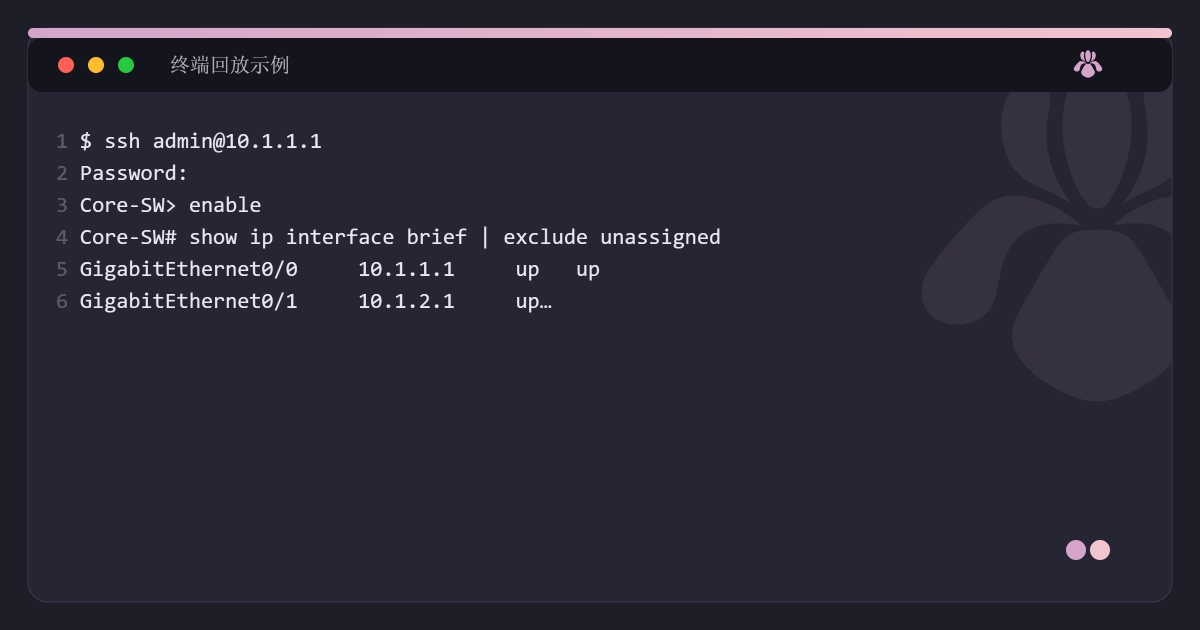
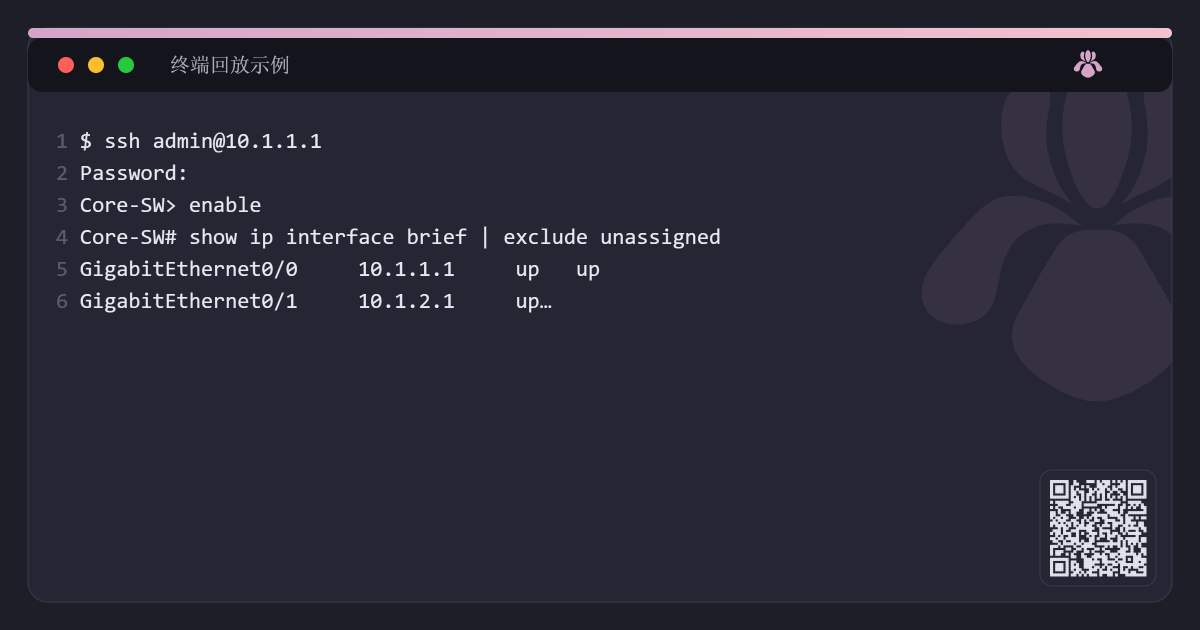
feat(ui): 分享卡片右下角加主题化二维码，扫码直达本文锚点
- 四种模板右下角新增二维码芯片（116px 圆角块）：--color-surface 底 +
  --color-text 模块，随当前主题配色；暗色主题为反色码，主流扫码器
  支持反色识别
- 内容指向「当前文档 + 选区最近标题锚点」的 hash 路由链接，Issue 反馈
  与卡片共用同一 pageUrlFor 构造；本地文件等无路径上下文时退回原
  双圆点装饰
- 编码复用站内本地实现 iris/js/qr-encoder.js（内容不出本机），按需
  懒加载，失败退回双圆点
- 排版预留：摘录/代码/表格的底部预留从 130px 加到 160~170px，避免与
  二维码芯片重叠
- ARTWORK.md §6.2/6.3 同步二维码规范；docs/image 四张预览图重生成

验证：OpenCV 解码四张卡二维码，浅色 3 张直接解出、暗色反色码翻色
后解出，URL 与构造链接逐字一致。

Changed region(s): [[0.8633, 0.754, 0.9558, 0.9349]]

diff --git a/iris/js/selection-tools.js b/iris/js/selection-tools.js
@@ -142,6 +142,14 @@
     return st.docTitle || document.title.split(' | ')[0] || '';
   }
 
+  // 卡片 / Issue 反馈共用的原文链接：当前文档 + 选区最近标题锚点（hash 路由）
+  function pageUrlFor(rect) {
+    const st = window.MarkdownPreview.state || {};
+    if (!st.currentFilePath) return '';
+    const anchor = nearestHeadingAnchor(rect);
+    return `${location.origin}${location.pathname}#/${st.currentFilePath}${anchor ? '#' + anchor : ''}`;
+  }
+
   // ============== GitHub Issue 一键反馈 ==============
   // 用预填标题/正文的 issue 表单收文档纠错：零后端，评论走 giscus、纠错走这里。
   function nearestHeadingAnchor(rect) {
@@ -162,8 +170,7 @@
     const st = window.MarkdownPreview.state || {};
     if (!cfg.owner || !cfg.repo) return;
     const path = st.currentFilePath || '';
-    const anchor = nearestHeadingAnchor(info.rect);
-    const pageUrl = `${location.origin}${location.pathname}#/${path}${anchor ? '#' + anchor : ''}`;
+    const pageUrl = pageUrlFor(info.rect);
     const quote = info.text.length > 300 ? info.text.slice(0, 300) + '…' : info.text;
     const title = `[反馈] ${docTitle() || path}：${info.text.slice(0, 30)}${info.text.length > 30 ? '…' : ''}`;
     const body = [
@@ -202,7 +209,7 @@
         hideToolbar();
         exportShareCard(
           { title: docTitle(), excerpt: info.text },
-          { template, rawText: info.rawText, tableEl: info.tableEl, vertical: template === 'quote-v' }
+          { template, rawText: info.rawText, tableEl: info.tableEl, vertical: template === 'quote-v', pageUrl: pageUrlFor(info.rect) }
         );
       });
     });
@@ -353,10 +360,15 @@
     }
   }
 
-  function drawFooter(ctx, W, H, dark) {
+  function drawFooter(ctx, W, H, dark, pageUrl) {
     const accent1 = cssVar('--color-accent-purple', '#d4a5c9');
     const accent2 = cssVar('--color-accent-pink', '#f2c4ce');
-    // 站名已上移到品牌头（drawBrand），页脚只留双圆点装饰
+    // 右下角：有原文链接时画主题化二维码（扫码直达本文锚点），
+    // 无链接（本地文件 / 无路径上下文）时退回双圆点装饰
+    if (pageUrl && window.MarkdownPreview.QREncoder) {
+      drawQRChip(ctx, W, H, dark, pageUrl);
+      return;
+    }
     ctx.fillStyle = accent2;
     ctx.beginPath();
     ctx.arc(W - 100, H - 80, 10, 0, Math.PI * 2);
@@ -367,13 +379,45 @@
     ctx.fill();
   }
 
+  // 二维码芯片：surface 圆角底 + 主题文字色模块，随当前主题配色。
+  // 暗色主题下是「浅模块 / 深底」的反色码，主流扫码器（iOS 相机 /
+  // 微信 / Google Lens）均支持反色识别。
+  function drawQRChip(ctx, W, H, dark, pageUrl) {
+    const qr = window.MarkdownPreview.QREncoder.encode(pageUrl, { ecl: 'M' });
+    if (!qr) return;
+    const surface = dark ? '#252533' : cssVar('--color-surface', '#ffffff');
+    const border = dark ? '#3a3a4c' : cssVar('--color-border', '#f0f0f0');
+    const ink = dark ? 'rgba(235,235,245,.92)' : cssVar('--color-text', '#2d2d2d');
+    const size = 116;
+    const x = W - 44 - size;
+    const y = H - 44 - size;
+    roundRectPath(ctx, x, y, size, size, 12);
+    ctx.fillStyle = surface;
+    ctx.fill();
+    ctx.strokeStyle = border;
+    ctx.lineWidth = 1;
+    ctx.stroke();
+    // 静区 10px（规范建议 ≥4 模块）+ 模块栅格
+    const quiet = 10;
+    const area = size - quiet * 2;
+    const cell = area / qr.size;
+    ctx.fillStyle = ink;
+    for (let r = 0; r < qr.size; r++) {
+      for (let c = 0; c < qr.size; c++) {
+        if (qr.modules[r * qr.size + c]) {
+          ctx.fillRect(x + quiet + c * cell, y + quiet + r * cell, cell + 0.5, cell + 0.5);
+        }
+      }
+    }
+  }
+
   function cardFont(isTitle) {
     const bodyFont = getComputedStyle(document.querySelector('.markdown-body') || document.body).fontFamily || 'sans-serif';
     return bodyFont;
   }
 
   // 引言模板（横版 1200×630 / 竖版 1200×1600 共用一套排版）
-  function drawQuoteCard(ctx, W, H, content) {
+  function drawQuoteCard(ctx, W, H, content, pageUrl) {
     const text = cssVar('--color-text', '#2d2d2d');
     const accent1 = cssVar('--color-accent-purple', '#d4a5c9');
     const vertical = H > W;
@@ -404,7 +448,7 @@
     // 固定行数在两行标题时会画到卡片内底之外并压住页脚
     const maxExcerptLines = Math.min(
       vertical ? 22 : 8,
-      Math.max(1, Math.floor((H - 130 - excerptTop) / lineHeight))
+      Math.max(1, Math.floor((H - 170 - excerptTop) / lineHeight))
     );
     const excerptLines = [];
     (content.excerpt || '').split('\n').some(seg => {
@@ -423,11 +467,11 @@
     ctx.font = `600 ${vertical ? 150 : 120}px Georgia, serif`;
     ctx.fillText('“', 52, excerptTop + 40);
 
-    drawFooter(ctx, W, H, false);
+    drawFooter(ctx, W, H, false, pageUrl);
   }
 
   // 代码卡片：固定深色编辑器窗口风格
-  function drawCodeCard(ctx, W, H, content, rawText) {
+  function drawCodeCard(ctx, W, H, content, rawText, pageUrl) {
     drawCardFrame(ctx, W, H, { dark: true });
 
     const mono = `ui-monospace, SFMono-Regular, Consolas, "Courier New", monospace`;
@@ -451,7 +495,7 @@
     // 代码正文
     ctx.fillStyle = '#e8e8f0';
     ctx.font = `22px ${mono}`;
-    const maxLines = 13;
+    const maxLines = 11; // 右下角二维码芯片占高 160px，末行基线须在其上
     const lines = [];
     String(rawText || content.excerpt || '').replace(/\t/g, '  ').split('\n').some(raw => {
       const wrapped = wrapLine(ctx, raw.replace(/\s+$/, ''), W - 190);
@@ -468,11 +512,11 @@
     ctx.fillStyle = 'rgba(235,235,245,.28)';
     for (let i = 0; i < lines.length; i++) ctx.fillText(String(i + 1), 56, 148 + i * 32);
 
-    drawFooter(ctx, W, H, true);
+    drawFooter(ctx, W, H, true, pageUrl);
   }
 
   // 表格卡片：把选区所在表格按当前主题重绘
-  function drawTableCard(ctx, W, H, content, tableEl) {
+  function drawTableCard(ctx, W, H, content, tableEl, pageUrl) {
     drawCardFrame(ctx, W, H, {});
     drawBrand(ctx, false);
     const text = cssVar('--color-text', '#2d2d2d');
@@ -503,7 +547,7 @@
 
     const rowH = 44;
     const headerTop = 160;
-    const maxRows = Math.min(rows.length, Math.floor((H - headerTop - 120) / rowH));
+    const maxRows = Math.min(rows.length, Math.floor((H - headerTop - 160) / rowH));
 
     const drawRow = (cells, y, isHeader) => {
       if (isHeader) {
@@ -546,7 +590,7 @@
       ctx.fillText(t('sel.cardTableMore', '… 其余 {n} 行未展示').replace('{n}', rows.length - maxRows), 80, headerTop + maxRows * rowH + 34);
     }
 
-    drawFooter(ctx, W, H, false);
+    drawFooter(ctx, W, H, false, pageUrl);
   }
 
   /**
@@ -558,6 +602,10 @@
     opts = opts || {};
     const template = opts.template || (opts.vertical ? 'quote-v' : 'quote');
     if (document.fonts && document.fonts.ready) await document.fonts.ready;
+    // 二维码编码器按需懒加载（qr-share.js 同款模式）；加载失败时 drawFooter 退回双圆点
+    if (opts.pageUrl && !window.MarkdownPreview.QREncoder) {
+      await window.MarkdownPreview.loadScript('iris/js/qr-encoder.js').catch(() => {});
+    }
 
     const dims = {
       'quote': [1200, 630],
@@ -575,9 +623,9 @@
     ctx.scale(scale, scale);
     ctx.textBaseline = 'alphabetic';
 
-    if (template === 'code') drawCodeCard(ctx, W, H, content, opts.rawText);
-    else if (template === 'table' && opts.tableEl) drawTableCard(ctx, W, H, content, opts.tableEl);
-    else drawQuoteCard(ctx, W, H, content);
+    if (template === 'code') drawCodeCard(ctx, W, H, content, opts.rawText, opts.pageUrl);
+    else if (template === 'table' && opts.tableEl) drawTableCard(ctx, W, H, content, opts.tableEl, opts.pageUrl);
+    else drawQuoteCard(ctx, W, H, content, opts.pageUrl);
 
     canvas.toBlob(blob => {
       if (!blob) return;
